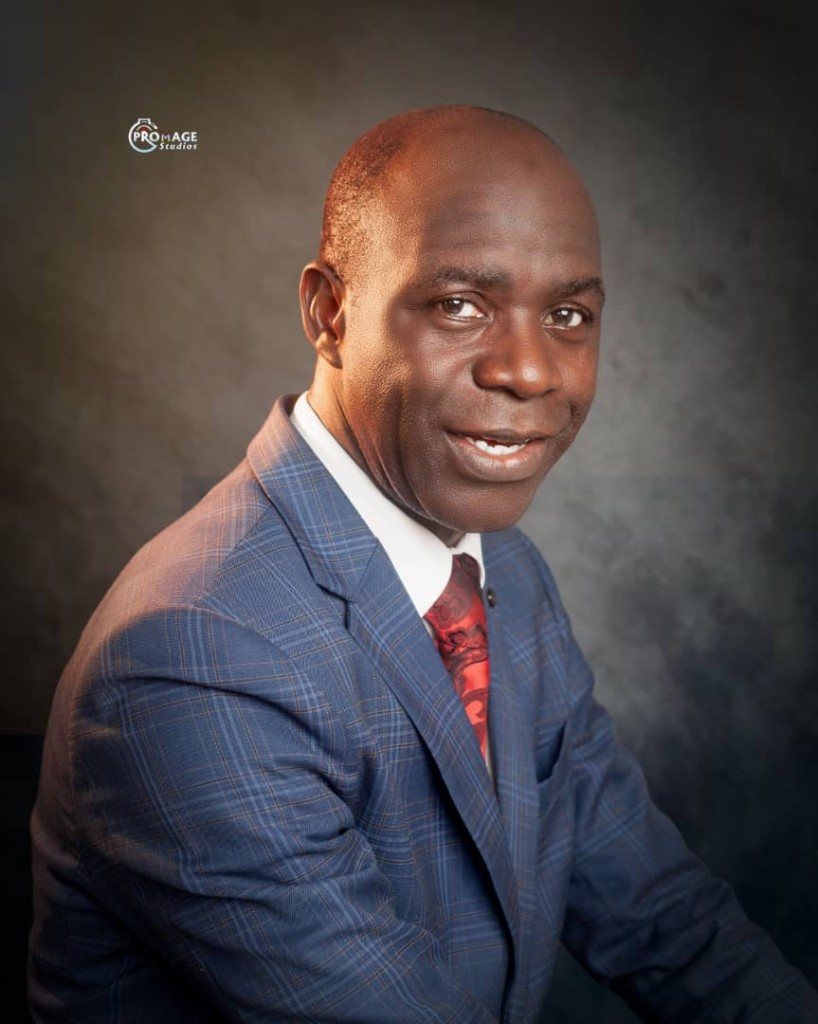
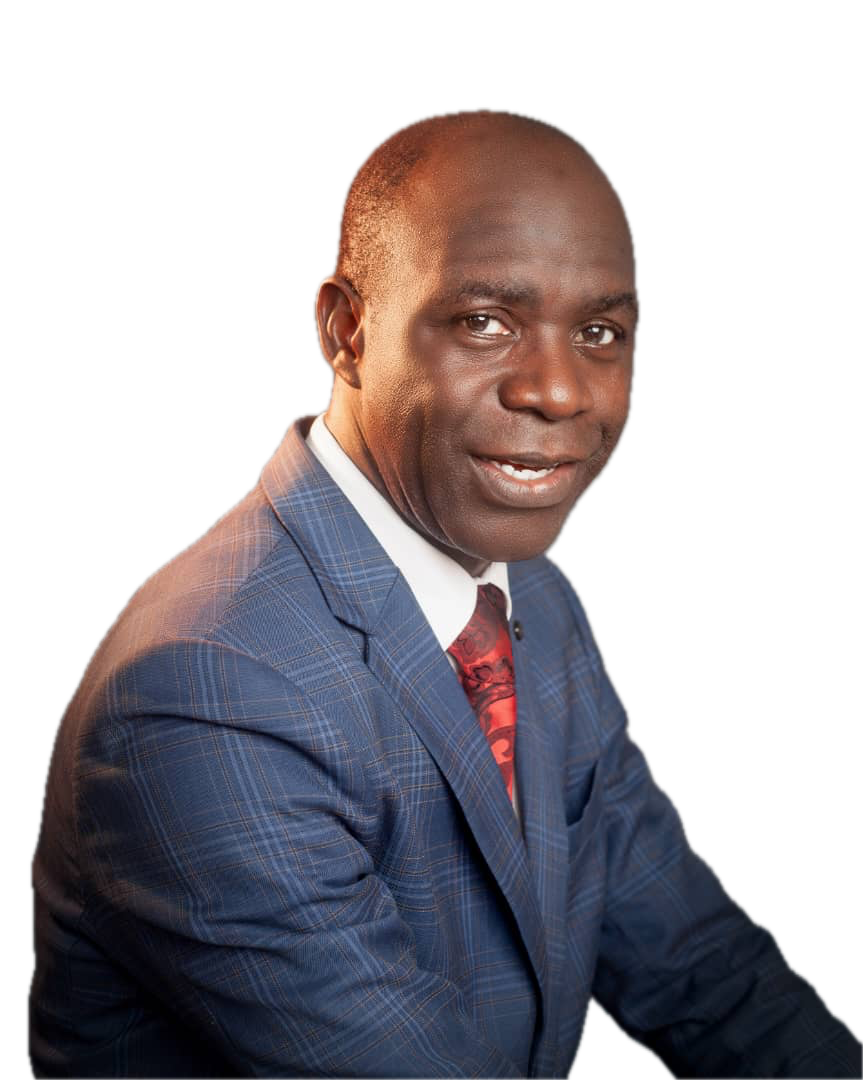
Refactor speakers layout; update hero video
Remove app/favicon.ico and add app/icon.png. Update AltrumHero: clarify comments, add MODAL_VIDEO_SRC for the full video, reposition the play button to vertical center, and use the modal video source in the modal player. Heavily refactor CampSpeakersSection: remove the previous sticky/scroll-track measurement logic and related hooks, introduce SpeakerCard and CopyBlock components, simplify to a responsive stacked/grid layout (mobile + desktop), and add a sectionRef. Fix SSR hydration in CampTestimonialsSection by introducing viewportH state (set after mount) and using it to compute section height. Also update two speaker image binaries.

diff --git a/components/camp/CampSpeakersSection.tsx b/components/camp/CampSpeakersSection.tsx
@@ -1,7 +1,7 @@
 "use client";
 
 import Image from "next/image";
-import { useCallback, useEffect, useRef, useState } from "react";
+import { useRef } from "react";
 import { CAMP_SECTION_PX, CAMP_SECTION_PY } from "@/components/camp/campSectionSpacing";
 import { useCampReveal } from "@/components/camp/useCampReveal";
 
@@ -65,219 +65,95 @@ const SPEAKERS: CampSpeaker[] = [
   },
 ];
 
-const STICKY_TOP = "16vh";
-const SCROLL_HOLD_PX = 48;
-
-const clamp01 = (value: number): number => Math.max(0, Math.min(1, value));
-
 export const CampSpeakersSection = () => {
   const { ref: sectionRevealRef, inView: sectionInView } = useCampReveal(0.08);
-  const containerRef = useRef<HTMLDivElement>(null);
-  const trackRef = useRef<HTMLDivElement>(null);
-  const viewportRef = useRef<HTMLDivElement>(null);
-  const [scrollTrackPx, setScrollTrackPx] = useState(900);
-  const [containerHeightPx, setContainerHeightPx] = useState(1800);
+  const sectionRef = useRef<HTMLElement>(null);
 
-  const measureLayout = useCallback(() => {
-    const track = trackRef.current;
-    const viewport = viewportRef.current;
-    if (!track || !viewport) return;
+  const SpeakerCard = ({ speaker, index, sizes }: { speaker: CampSpeaker; index: number; sizes: string }) => (
+    <article
+      className={`camp-reveal ${sectionInView ? "is-visible" : ""}`}
+      style={{ transitionDelay: `${0.08 + index * 0.06}s` }}
+    >
+      <div
+        className="relative aspect-[3/4] overflow-hidden rounded-xl md:rounded-2xl"
+        style={{ background: "radial-gradient(ellipse at 60% 30%, #f5f4f2 0%, #e8e6e2 50%, #d8d5d0 100%)" }}
+      >
+        <Image
+          src={speaker.imageSrc}
+          alt={speaker.name}
+          fill
+          sizes={sizes}
+          unoptimized
+          className="object-cover object-top transition-transform duration-500"
+        />
+      </div>
+      <h3 className="mt-3 text-[0.95rem] font-bold leading-tight text-neutral-950 md:text-[clamp(0.95rem,1.5vw,1.3rem)]">
+        {speaker.name}
+      </h3>
+      <p className="mt-1 text-[10px] font-bold uppercase tracking-[0.18em] text-neutral-800 md:text-[11px]">
+        {speaker.organization}
+      </p>
+      <p className="mt-0.5 text-[13px] text-neutral-500 md:text-[14px]">{speaker.role}</p>
+    </article>
+  );
 
-    /**
-     * viewport.clientHeight reflects its CSS height (78vh on desktop).
-     * track.scrollHeight reflects the true rendered height of all speaker cards.
-     * We scroll the track by the difference.
-     */
-    const viewportH = viewport.clientHeight;
-    const trackH = track.scrollHeight;
-    const maxTranslate = Math.max(0, trackH - viewportH);
-    const trackPx = maxTranslate + SCROLL_HOLD_PX;
-    setScrollTrackPx(trackPx);
-    setContainerHeightPx(trackPx + window.innerHeight);
-  }, []);
-
-  const handleScroll = useCallback(() => {
-    const container = containerRef.current;
-    const track = trackRef.current;
-    const viewport = viewportRef.current;
-    if (!container || !track || !viewport) return;
-
-    const { top, height } = container.getBoundingClientRect();
-    const vh = window.innerHeight;
-    const scrolled = -top;
-    const scrollable = height - vh;
-    const progress = scrollable <= 0 ? 0 : clamp01(scrolled / scrollable);
-
-    const maxTranslate = Math.max(0, track.scrollHeight - viewport.clientHeight);
-    track.style.transform = `translate3d(0, ${(-progress * maxTranslate).toFixed(2)}px, 0)`;
-  }, []);
-
-  useEffect(() => {
-    measureLayout();
-    handleScroll();
-
-    /**
-     * Images inside the track render async — their intrinsic heights are not
-     * available on the first paint, so the initial measureLayout() can see a
-     * track.scrollHeight that is too small.  Re-measure once on the next frame
-     * and again after a short delay to catch lazy-loaded images.
-     */
-    const rafId = requestAnimationFrame(() => {
-      measureLayout();
-      handleScroll();
-    });
-    const timerId = setTimeout(() => {
-      measureLayout();
-      handleScroll();
-    }, 400);
-
-    const track = trackRef.current;
-    if (!track) return;
-
-    const resizeObserver = new ResizeObserver(() => {
-      measureLayout();
-      handleScroll();
-    });
-    resizeObserver.observe(track);
-    if (viewportRef.current) resizeObserver.observe(viewportRef.current);
-
-    window.addEventListener("scroll", handleScroll, { passive: true });
-    window.addEventListener("resize", handleScroll, { passive: true });
-
-    return () => {
-      cancelAnimationFrame(rafId);
-      clearTimeout(timerId);
-      resizeObserver.disconnect();
-      window.removeEventListener("scroll", handleScroll);
-      window.removeEventListener("resize", handleScroll);
-    };
-  }, [handleScroll, measureLayout]);
+  const CopyBlock = ({ className }: { className?: string }) => (
+    <div
+      ref={sectionRevealRef}
+      className={`flex flex-col camp-reveal ${sectionInView ? "is-visible" : ""} ${className ?? ""}`}
+    >
+      <p className="text-[12px] font-bold uppercase tracking-[0.24em] text-neutral-400">
+        Speakers
+      </p>
+      <h2 className="mt-3 text-balance text-[clamp(2.25rem,5.5vw,4.5rem)] font-bold leading-[1.02] tracking-[-0.03em] text-neutral-950">
+        Camp ministers
+      </h2>
+      <p className="mt-4 max-w-md text-pretty text-[clamp(0.95rem,1.6vw,1.2rem)] leading-relaxed text-neutral-500">
+        Anointed ministers and minstrels coming together to lead the next
+        generation into worship, the Word, and supernatural encounter.
+      </p>
+      <a
+        href="https://bit.ly/TSCAMP2026"
+        target="_blank"
+        rel="noopener noreferrer"
+        className="mt-6 inline-flex items-center gap-2 text-[15px] font-semibold text-neutral-950 transition-[gap,opacity] duration-300 hover:gap-3 hover:opacity-70 focus-visible:outline-none focus-visible:ring-2 focus-visible:ring-neutral-400 md:mt-8 md:text-[16px]"
+      >
+        <span aria-hidden="true">→</span>
+        Register for camp
+      </a>
+    </div>
+  );
 
   return (
     <section
+      ref={sectionRef}
       id="speakers"
       aria-label="Camp speakers"
       className={`bg-white ${CAMP_SECTION_PX} ${CAMP_SECTION_PY}`}
     >
-      {/* ── Mobile layout: plain static flow, no sticky tricks ── */}
+      {/* ── Mobile: stacked copy then grid ── */}
       <div className="md:hidden">
-        <div
-          ref={sectionRevealRef}
-          className={`mb-8 flex flex-col camp-reveal ${sectionInView ? "is-visible" : ""}`}
-        >
-          <p className="text-[12px] font-bold uppercase tracking-[0.24em] text-neutral-400">
-            Speakers
-          </p>
-          <h2 className="mt-3 text-balance text-[clamp(2.25rem,8vw,3.5rem)] font-bold leading-[1.02] tracking-[-0.03em] text-neutral-950">
-            Camp ministers
-          </h2>
-          <p className="mt-4 text-pretty text-[0.95rem] leading-relaxed text-neutral-500">
-            Anointed ministers and minstrels coming together to lead the next
-            generation into worship, the Word, and supernatural encounter.
-          </p>
-          <a
-            href="https://bit.ly/TSCAMP2026"
-            target="_blank"
-            rel="noopener noreferrer"
-            className="mt-6 inline-flex items-center gap-2 text-[15px] font-semibold text-neutral-950 transition-[gap,opacity] duration-300 hover:gap-3 hover:opacity-70 focus-visible:outline-none focus-visible:ring-2 focus-visible:ring-neutral-400"
-          >
-            <span aria-hidden="true">→</span>
-            Register for camp
-          </a>
-        </div>
+        <CopyBlock className="mb-8" />
         <div className="grid grid-cols-2 gap-x-4 gap-y-8">
           {SPEAKERS.map((speaker, index) => (
-            <article
-              key={speaker.id}
-              className={`camp-reveal ${sectionInView ? "is-visible" : ""}`}
-              style={{ transitionDelay: `${0.08 + index * 0.06}s` }}
-            >
-              <div className="relative aspect-[3/4] overflow-hidden rounded-xl bg-neutral-200">
-                <Image
-                  src={speaker.imageSrc}
-                  alt={speaker.name}
-                  fill
-                  sizes="45vw"
-                  className="object-cover object-top transition-transform duration-500"
-                />
-              </div>
-              <h3 className="mt-3 text-[0.95rem] font-bold leading-tight text-neutral-950">
-                {speaker.name}
-              </h3>
-              <p className="mt-1 text-[10px] font-bold uppercase tracking-[0.18em] text-neutral-800">
-                {speaker.organization}
-              </p>
-              <p className="mt-0.5 text-[13px] text-neutral-500">{speaker.role}</p>
-            </article>
+            <SpeakerCard key={speaker.id} speaker={speaker} index={index} sizes="45vw" />
           ))}
         </div>
       </div>
 
-      {/* ── Desktop layout: sticky scroll-driven vertical track ── */}
-      <div
-        ref={containerRef}
-        style={{ height: containerHeightPx }}
-        className="relative hidden md:block"
-      >
-        <div
-          className="sticky flex flex-row items-stretch gap-14 md:h-[78vh]"
-          style={{ top: STICKY_TOP }}
-        >
-          <div
-            className={`flex w-[min(380px,36%)] shrink-0 flex-col justify-center camp-reveal ${sectionInView ? "is-visible" : ""}`}
-          >
-            <p className="text-[12px] font-bold uppercase tracking-[0.24em] text-neutral-400">
-              Speakers
-            </p>
-            <h2 className="mt-3 text-balance text-[clamp(2.25rem,5.5vw,4.5rem)] font-bold leading-[1.02] tracking-[-0.03em] text-neutral-950">
-              Camp ministers
-            </h2>
-            <p className="mt-4 max-w-md text-pretty text-[clamp(0.95rem,1.8vw,1.25rem)] leading-relaxed text-neutral-500 sm:mt-5">
-              Anointed ministers and minstrels coming together to lead the next
-              generation into worship, the Word, and supernatural encounter.
-            </p>
-            <a
-              href="https://bit.ly/TSCAMP2026"
-              target="_blank"
-              rel="noopener noreferrer"
-              className="mt-8 inline-flex items-center gap-2 text-[16px] font-semibold text-neutral-950 transition-[gap,opacity] duration-300 hover:gap-3 hover:opacity-70 focus-visible:outline-none focus-visible:ring-2 focus-visible:ring-neutral-400"
-            >
-              <span aria-hidden="true">→</span>
-              Register for camp
-            </a>
-          </div>
+      {/* ── Desktop: left copy + right grid, both in normal flow ── */}
+      <div className="hidden md:flex md:items-start md:gap-14">
+        {/* Left copy — sticky so it stays visible while you scroll the grid */}
+        <div className="sticky top-[20vh] shrink-0 self-start md:w-[min(360px,34%)]">
+          <CopyBlock />
+        </div>
 
-          <div ref={viewportRef} className="relative min-h-0 flex-1 overflow-hidden">
-            <div
-              ref={trackRef}
-              className="grid w-full grid-cols-2 gap-x-6 gap-y-12 will-change-transform"
-              style={{ transform: "translate3d(0, 0, 0)" }}
-            >
-              {SPEAKERS.map((speaker, index) => (
-                <article
-                  key={speaker.id}
-                  className={`camp-card-hover camp-reveal shrink-0 ${sectionInView ? "is-visible" : ""}`}
-                  style={{ transitionDelay: `${0.08 + index * 0.06}s` }}
-                >
-                  <div className="relative aspect-[3/4] overflow-hidden rounded-2xl bg-neutral-200">
-                    <Image
-                      src={speaker.imageSrc}
-                      alt={speaker.name}
-                      fill
-                      sizes="240px"
-                      className="object-cover object-top transition-[transform,filter] duration-500 grayscale hover:grayscale-0"
-                    />
-                  </div>
-                  <h3 className="mt-3 text-[clamp(0.95rem,2vw,1.5rem)] font-bold leading-tight text-neutral-950">
-                    {speaker.name}
-                  </h3>
-                  <p className="mt-1 text-[11px] font-bold uppercase tracking-[0.18em] text-neutral-800">
-                    {speaker.organization}
-                  </p>
-                  <p className="mt-0.5 text-[15px] text-neutral-500">{speaker.role}</p>
-                </article>
-              ))}
-            </div>
+        {/* Right: natural-height grid — scrolls away on its own */}
+        <div className="min-w-0 flex-1">
+          <div className="grid grid-cols-2 gap-x-6 gap-y-10">
+            {SPEAKERS.map((speaker, index) => (
+              <SpeakerCard key={speaker.id} speaker={speaker} index={index} sizes="(min-width:1280px) 260px, 20vw" />
+            ))}
           </div>
         </div>
       </div>

diff --git a/components/AltrumHero.tsx b/components/AltrumHero.tsx
@@ -17,8 +17,10 @@ type AltrumHeroProps = {
   backgroundAlt?: string;
 };
 
-/** Background loop video — pre-trimmed, no logo slate */
+/** Background loop — trimmed no-captions version, loops silently */
 const HERO_VIDEO_SRC = "/videos/jlp-ministry-video-no-captions.mp4";
+/** Full ministry video — original with captions, plays in the modal */
+const MODAL_VIDEO_SRC = "/videos/jlp-ministry-video.mp4";
 const HERO_POSTER_SRC = "/hero/jlp-hero.png";
 /** Background preview starts here on first load, then loops naturally from 0:00 */
 const HERO_VIDEO_START_OFFSET = 24;
@@ -272,7 +274,7 @@ export const AltrumHero = ({ backgroundAlt = "Hero background" }: AltrumHeroProp
             onClick={handleOpenModal}
             aria-label="Watch our ministry story"
             tabIndex={0}
-            className="pointer-events-auto absolute bottom-12 right-10 z-20 hidden cursor-pointer items-center gap-3 rounded-full border border-white/20 px-5 py-3.5 text-white shadow-2xl transition-all duration-300 hover:border-white/35 hover:bg-white/15 focus-visible:outline-none focus-visible:ring-2 focus-visible:ring-white/40 sm:flex lg:bottom-14 lg:right-14"
+            className="pointer-events-auto absolute right-10 top-1/2 z-20 hidden -translate-y-1/2 cursor-pointer items-center gap-3 rounded-full border border-white/20 px-5 py-3.5 text-white shadow-2xl transition-all duration-300 hover:border-white/35 hover:bg-white/15 focus-visible:outline-none focus-visible:ring-2 focus-visible:ring-white/40 sm:flex lg:right-14"
             style={{
               background: "rgba(255,255,255,0.08)",
               backdropFilter: "blur(20px) saturate(1.5)",
@@ -347,7 +349,7 @@ export const AltrumHero = ({ backgroundAlt = "Hero background" }: AltrumHeroProp
               <video
                 ref={modalVideoRef}
                 className="h-full w-full object-contain"
-                src={HERO_VIDEO_SRC}
+                src={MODAL_VIDEO_SRC}
                 controls
                 autoPlay
                 playsInline

diff --git a/components/camp/CampTestimonialsSection.tsx b/components/camp/CampTestimonialsSection.tsx
@@ -85,6 +85,8 @@ export const CampTestimonialsSection = () => {
   const trackRef = useRef<HTMLDivElement>(null);
   const viewportRef = useRef<HTMLDivElement>(null);
   const [scrollTrackPx, setScrollTrackPx] = useState(800);
+  /** Viewport height — 0 on SSR, set after mount so server and client render the same initial height. */
+  const [viewportH, setViewportH] = useState(0);
 
   /** How many px of scroll distance to give to the horizontal slide. */
   const measureLayout = useCallback(() => {
@@ -94,6 +96,7 @@ export const CampTestimonialsSection = () => {
 
     const overflowPx = Math.max(0, track.scrollWidth - viewport.clientWidth);
     setScrollTrackPx(overflowPx);
+    setViewportH(window.innerHeight);
   }, []);
 
   const handleScroll = useCallback(() => {
@@ -155,8 +158,10 @@ export const CampTestimonialsSection = () => {
   /**
    * Section height = enough scroll distance to fully traverse the cards,
    * plus a full viewport height so the pinned block stays visible throughout.
+   * viewportH starts at 0 (SSR-safe) and is set after mount — both server
+   * and client agree on the initial value, preventing the hydration mismatch.
    */
-  const sectionHeightPx = scrollTrackPx + (typeof window !== "undefined" ? window.innerHeight : 900);
+  const sectionHeightPx = scrollTrackPx + viewportH;
 
   return (
     <section
